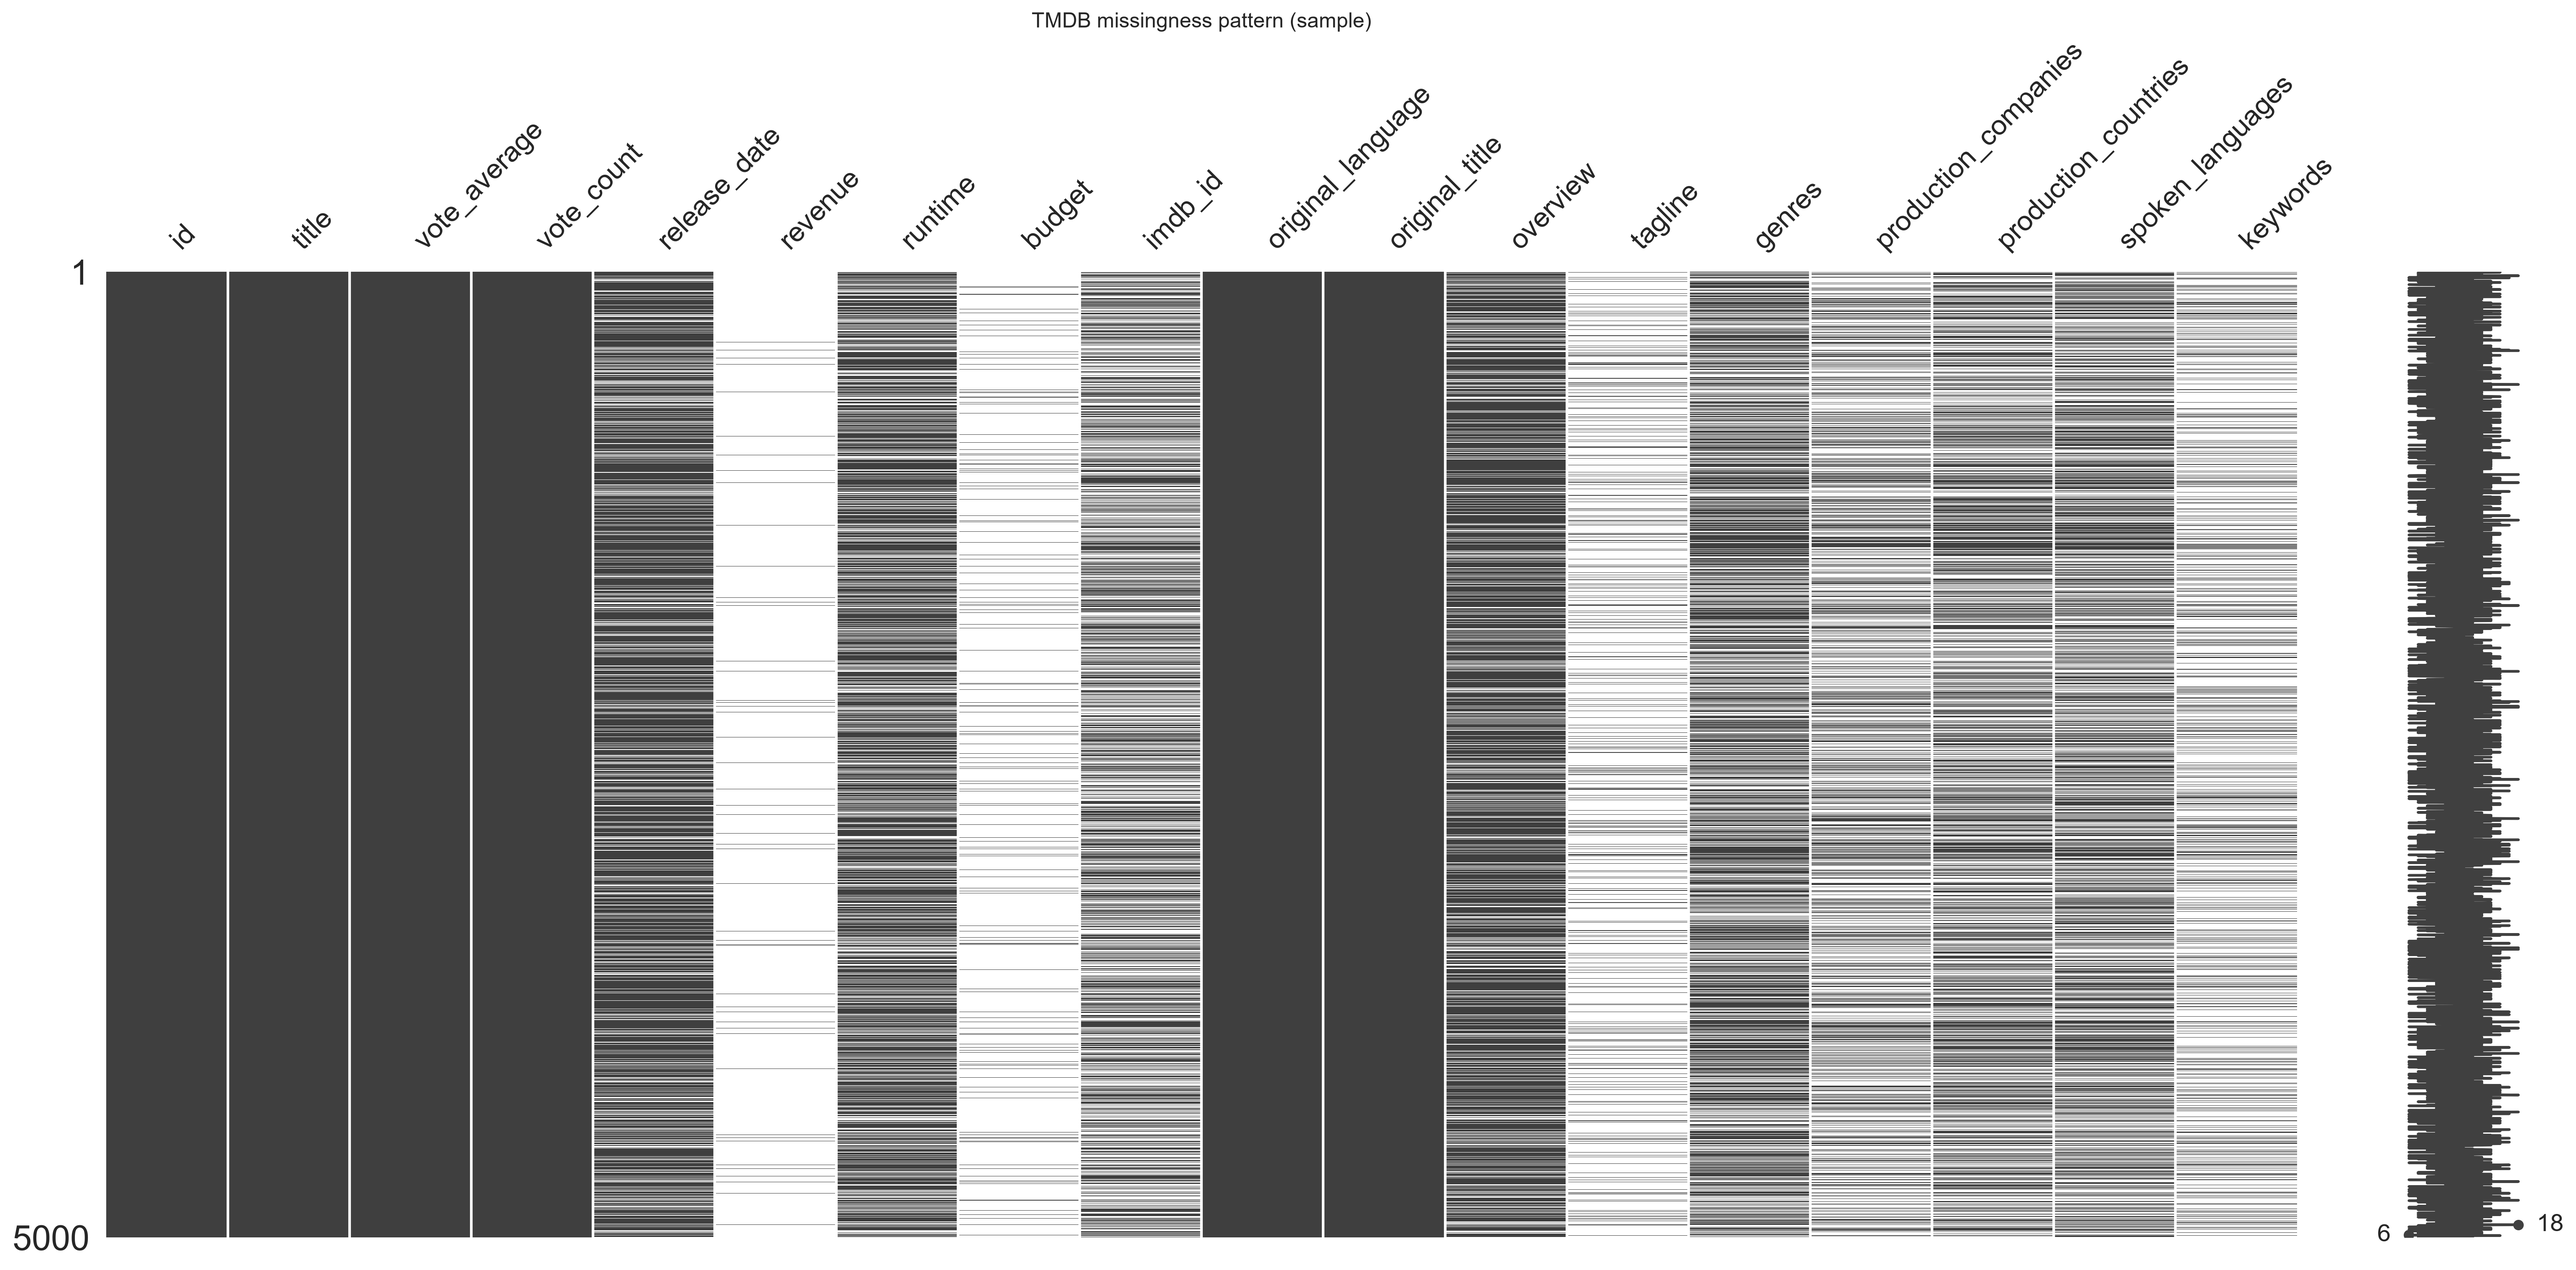
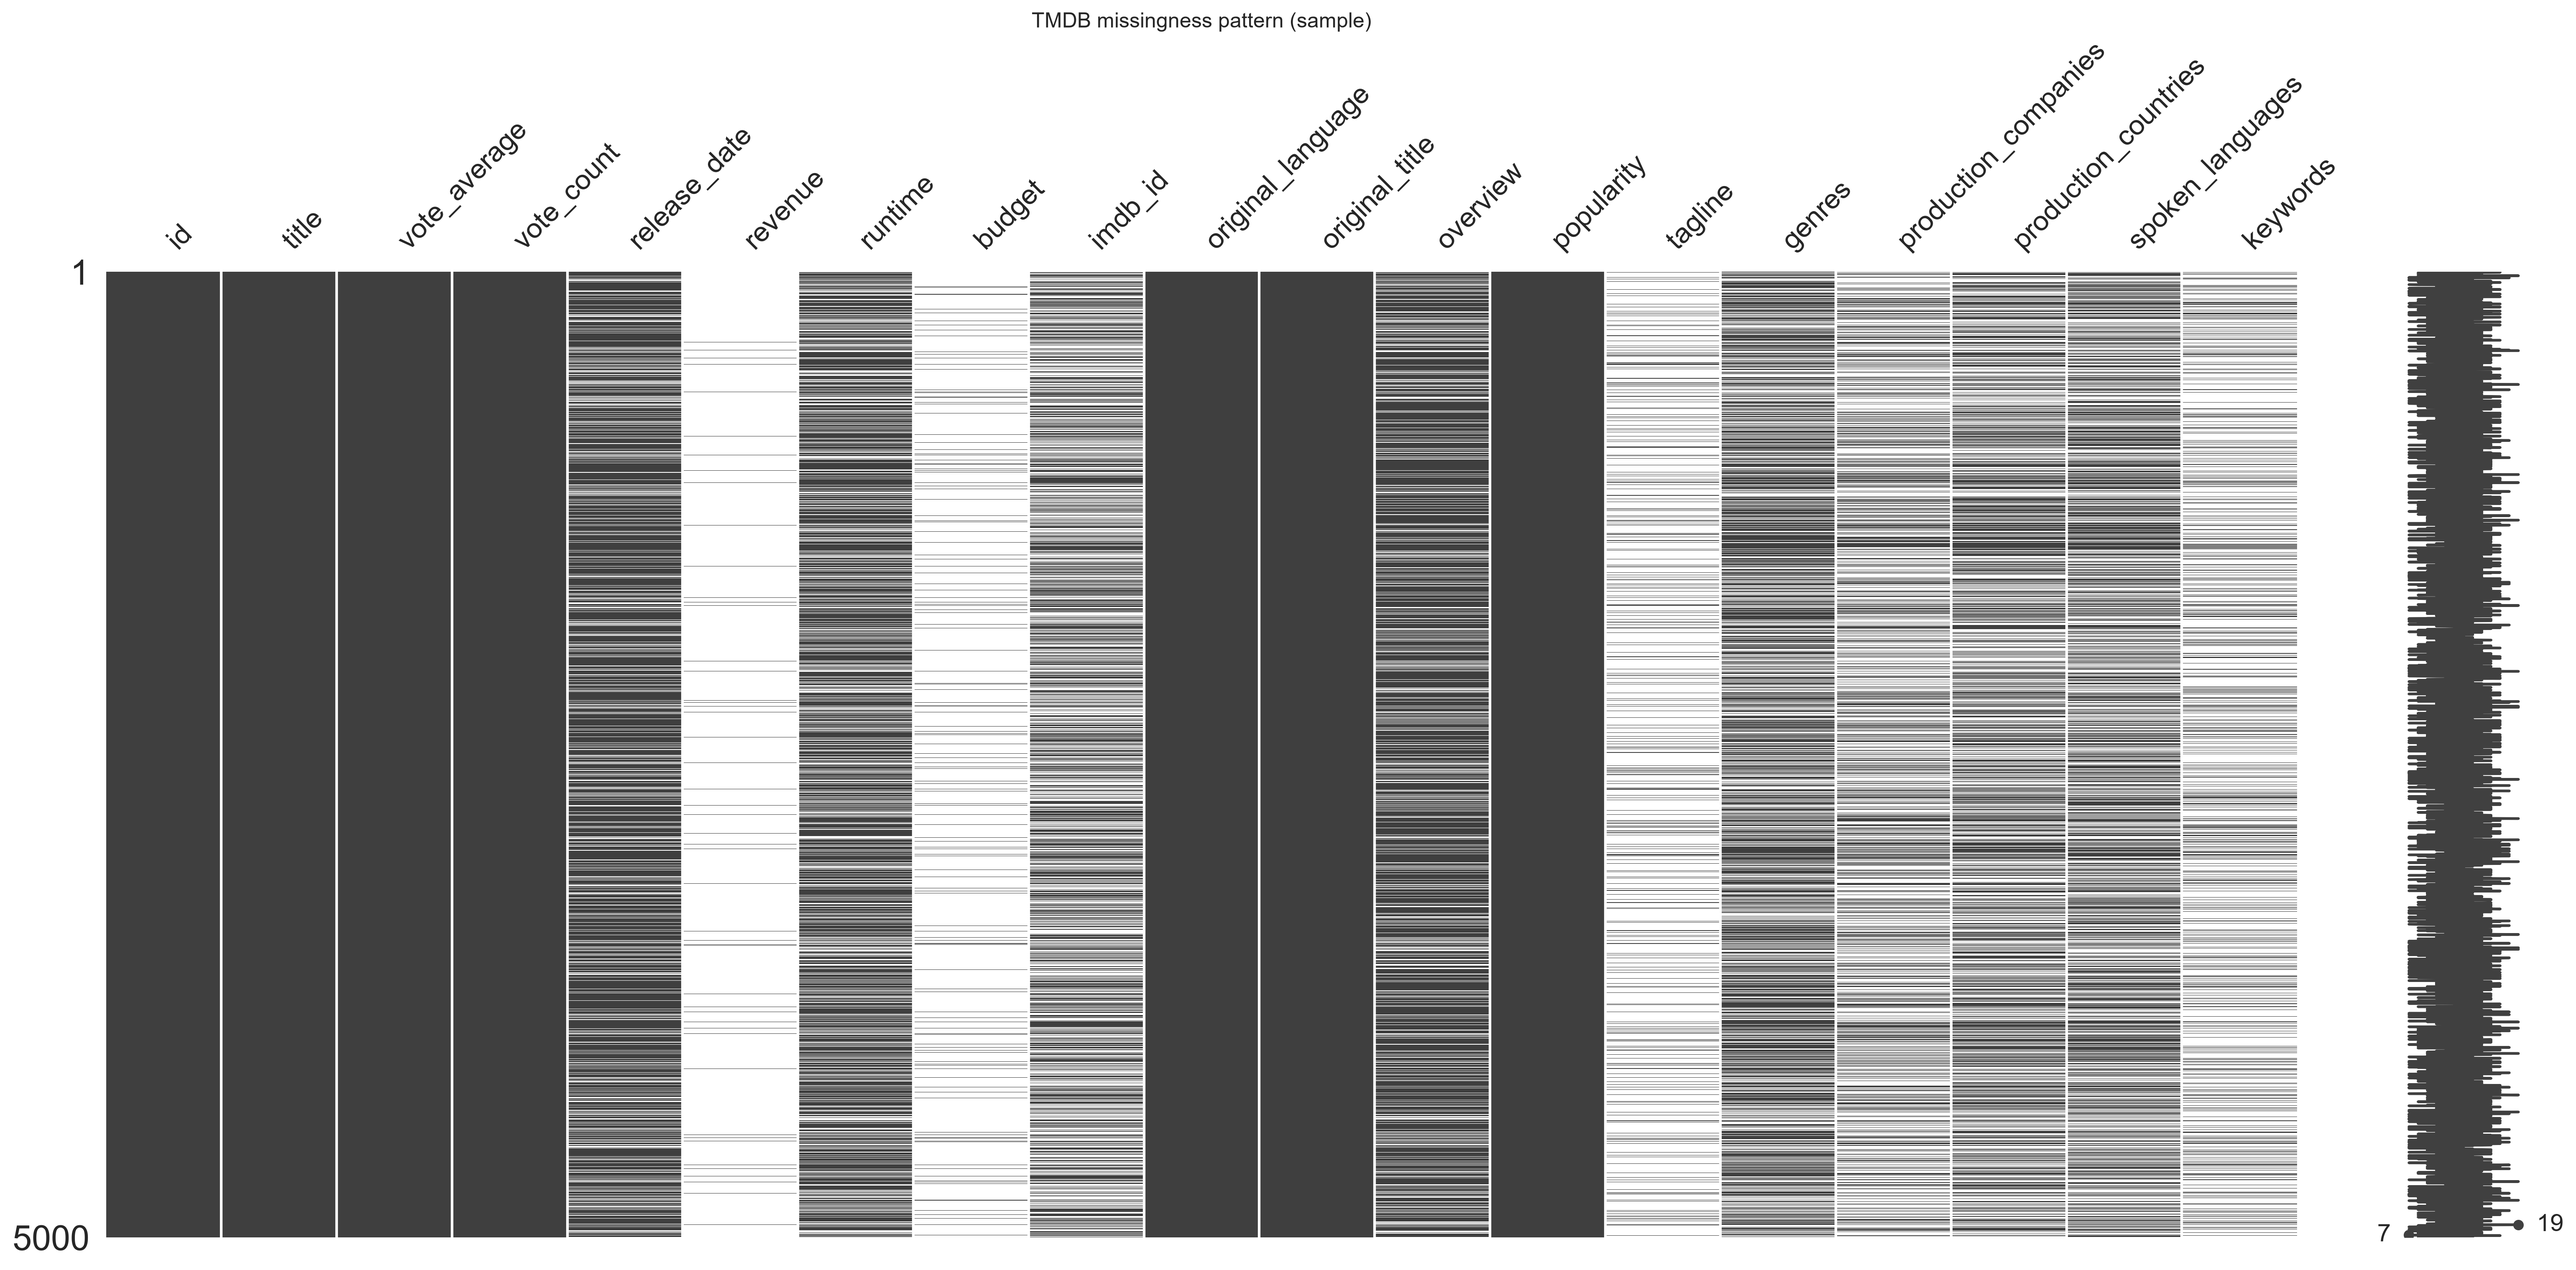
fix(eda): keep popularity feature instead of dropping it
Remove the "Drop popularity" step -- decided to retain the feature
after all. Add a popularity/vote_count zero-combinations check in
Section 1, alongside the existing vote_average/vote_count check, to
surface the same kind of consistency signal for popularity.

diff --git a/reports/eda_log.md b/reports/eda_log.md
@@ -194,3 +194,27 @@ Figures:
 
 ---
 
+## 01 Overview & Cleaning: TMDB -- summary (2026-08-11 03:15)
+
+- **TMDB rows (raw -> cleaned)**: 1,456,829 -> 1,253,097
+- **TMDB columns (raw -> cleaned)**: 24 -> 19
+- **Raw memory footprint (deep)**: 734.2 MB
+- **Dropped: status != 'Released'**: 54,181 rows
+- **Dropped: adult == True**: 143,475 rows
+- **Recoded budget/revenue zeros as NaN**: 93.8% / 98.1% of rows
+- **Recoded runtime zeros as NaN**: 30.5% of rows
+- **Recoded negative runtime/revenue as NaN**: 0.0001% / 0.0001% of rows
+- **Dropped: duplicate id rows**: 1,006 (kept most complete row per id)
+- **Dropped: duplicate imdb_id rows**: 3,748 (kept most complete row per imdb_id, tie-broken by lowest id)
+- **Dropped: missing title rows**: 13
+- **Dropped: inconsistent vote_average/vote_count rows**: 1,309
+- **Final missingness (top 3 by %)**: {'revenue': 98.09, 'budget': 93.86, 'tagline': 85.99}
+- **vote_count >= 1 / >= 5 / >= 10**: 337,742 / 125,066 / 78,659 rows (vote_count filter deferred to modeling stage, not yet applied)
+- **Saved to**: c:\Users\knowu\Documents\Project-Repos\Dissertation\smart-tabular-embeddings\data\processed\tmdb_clean.parquet
+
+Figures:
+- `reports/figures/01_tmdb_missingness_matrix_cleandata.png`
+- `reports/figures/01_tmdb_vote_average_hist.png`
+
+---
+
